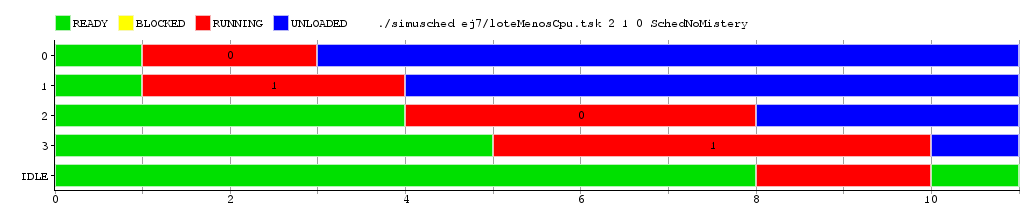
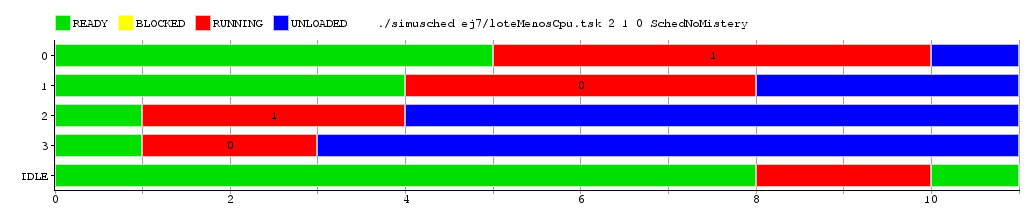
4 y 6 re testeados

Changed region(s): [[0.1246, 0.1935, 0.9348, 0.7465]]

diff --git a/tp1/simusched/sched_rr.cpp b/tp1/simusched/sched_rr.cpp
@@ -11,8 +11,8 @@ SchedRR::SchedRR(vector<int> argn) {
 	// Cada core tiene un quantum distinto
 
 	//cout << argn[0] << "\n";
-	int cores = argn[0]; //creo que argn[0] tiene el nombre del scheduler
-	for(int i = 1; i < 1+cores; i++)
+	int cores = argn[1]; //creo que argn[0] tiene el nombre del scheduler
+	for(int i = 2; i < 2+cores; i++)
 	{
 		quantum.push_back(argn[i]);
 		remaining.push_back(argn[i]);
